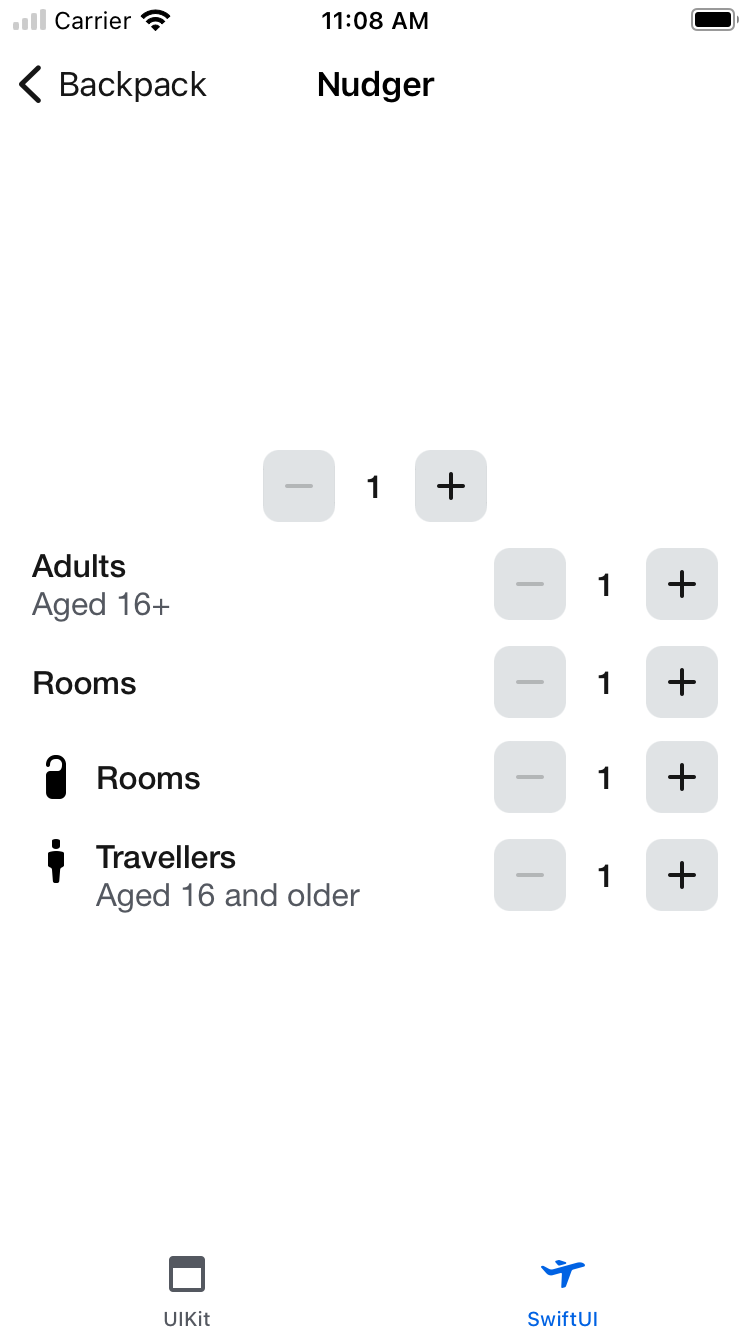
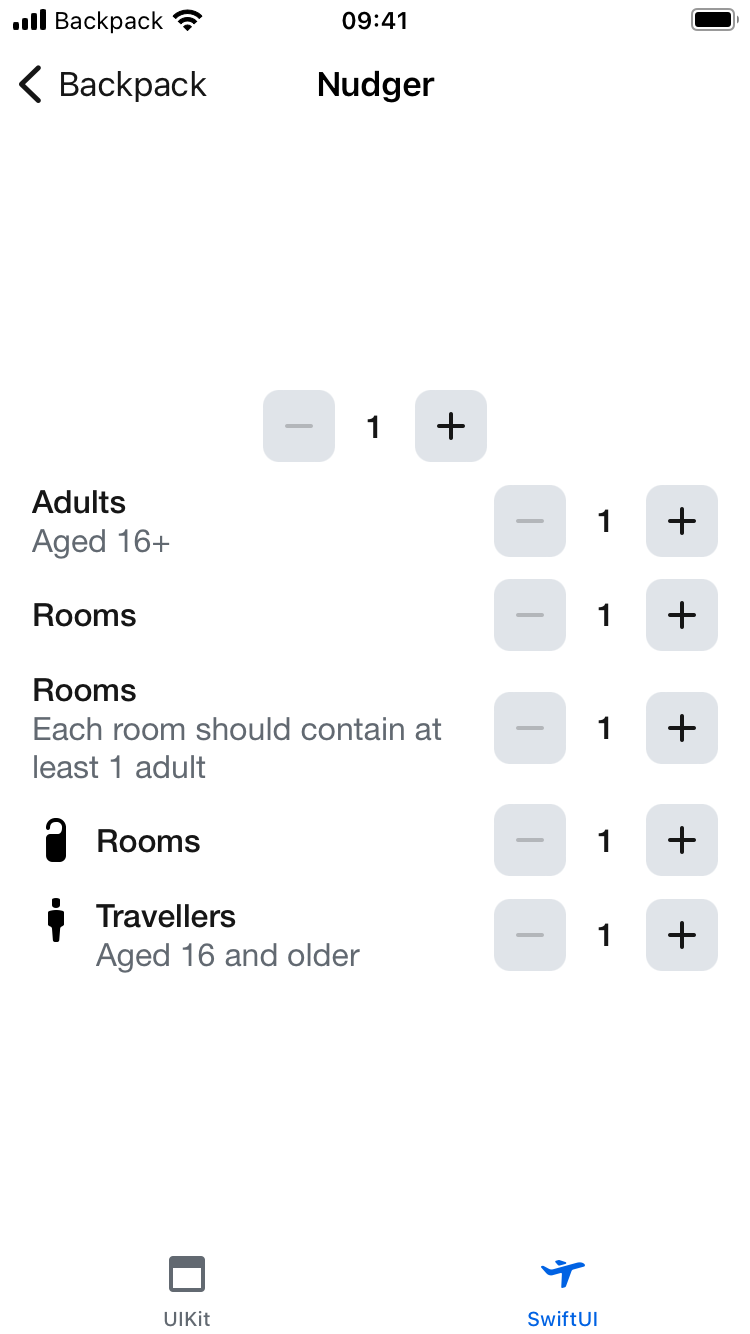
Fixed nudger component subtitle display without wrap case of long string

diff --git a/Backpack-SwiftUI/Nudger/Classes/BPKNudger.swift b/Backpack-SwiftUI/Nudger/Classes/BPKNudger.swift
@@ -106,7 +106,7 @@ public struct BPKNudger: View {
                         if let subtitle {
                             BPKText(subtitle)
                                 .foregroundColor(.textSecondaryColor)
-                                .lineLimit(titleLineLimit())
+                                .lineLimit(nil)
                         }
                     }
                 }
@@ -192,6 +192,13 @@ struct BPKNudger_Previews: PreviewProvider {
             BPKNudger(value: .constant(5), min: 0, max: 10)
             BPKNudger(value: .constant(10), min: 0, max: 10)
             BPKNudger(title: "Adults", subtitle: "Aged 16 and older", value: .constant(1), min: 1, max: 10)
+            BPKNudger(
+                title: "Rooms",
+                subtitle: "Each room should contain at least 1 adult",
+                value: .constant(1),
+                min: 1,
+                max: 10
+            )
             BPKNudger(
                 title: "Travellers",
                 subtitle: "Aged 16 and older",

diff --git a/Example/Backpack/SwiftUI/Components/Nudger/NudgerExampleView.swift b/Example/Backpack/SwiftUI/Components/Nudger/NudgerExampleView.swift
@@ -30,6 +30,13 @@ struct NudgerExampleView: View {
                 .accessibilityLabel("Passengers")
             BPKNudger(title: "Adults", subtitle: "Aged 16+", value: $value, min: 1, max: 10)
             BPKNudger(title: "Rooms", value: $value, min: 1, max: 10)
+            BPKNudger(
+                title: "Rooms",
+                subtitle: "Each room should contain at least 1 adult",
+                value: $value,
+                min: 1,
+                max: 10
+            )
             BPKNudger(title: "Rooms", icon: .room, value: $value, min: 1, max: 10)
             BPKNudger(
                 title: "Travellers",

diff --git a/Backpack-SwiftUI/Tests/Nudger/BPKNudgerTests.swift b/Backpack-SwiftUI/Tests/Nudger/BPKNudgerTests.swift
@@ -52,6 +52,19 @@ class BPKNudgerTests: XCTestCase {
         )
     }
     
+    func test_title_and_long_subtitle() {
+        assertSnapshot(
+            BPKNudger(
+                title: "Rooms",
+                subtitle: "Each room should contain at least 1 adult",
+                value: .constant(5),
+                min: 0,
+                max: 10,
+                step: 1
+            ).frame(width: 300)
+        )
+    }
+    
     func test_title_and_icon() {
         assertSnapshot(
             BPKNudger(title: "Room", icon: .room, value: .constant(5), min: 0, max: 10, step: 1)
